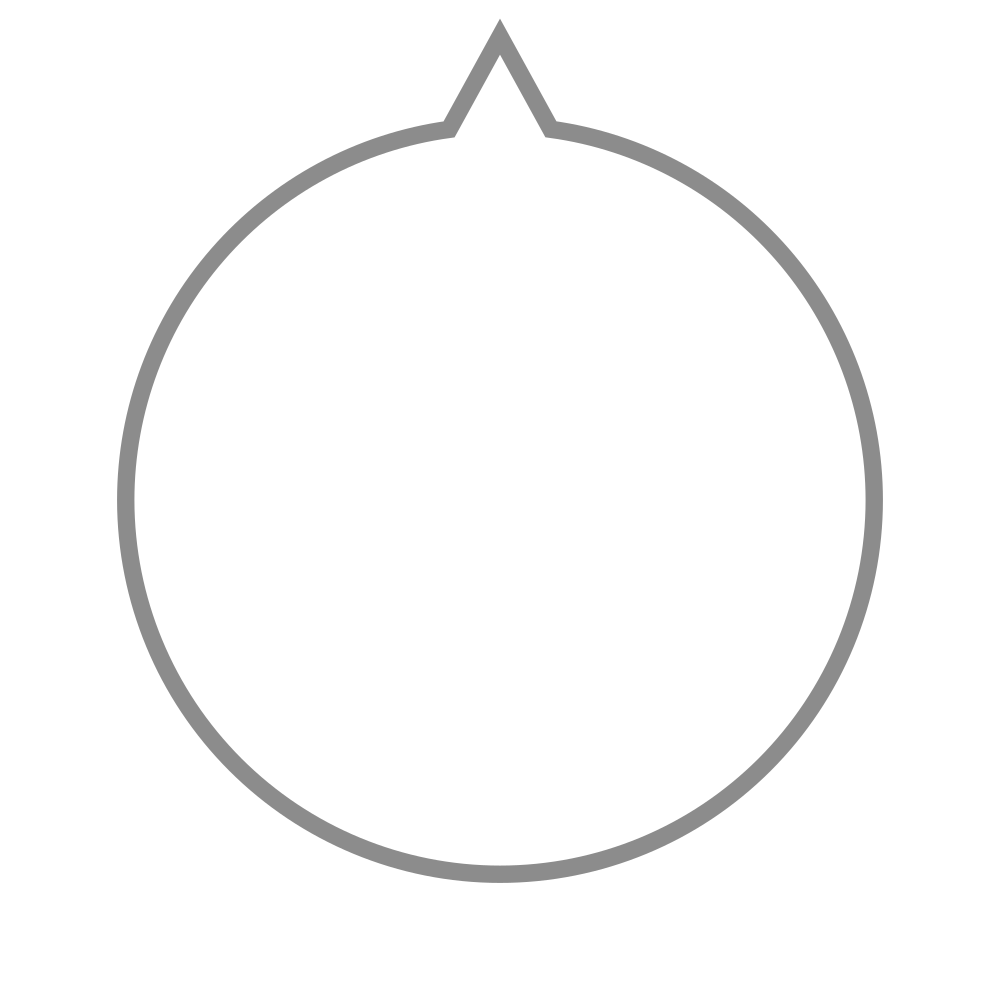
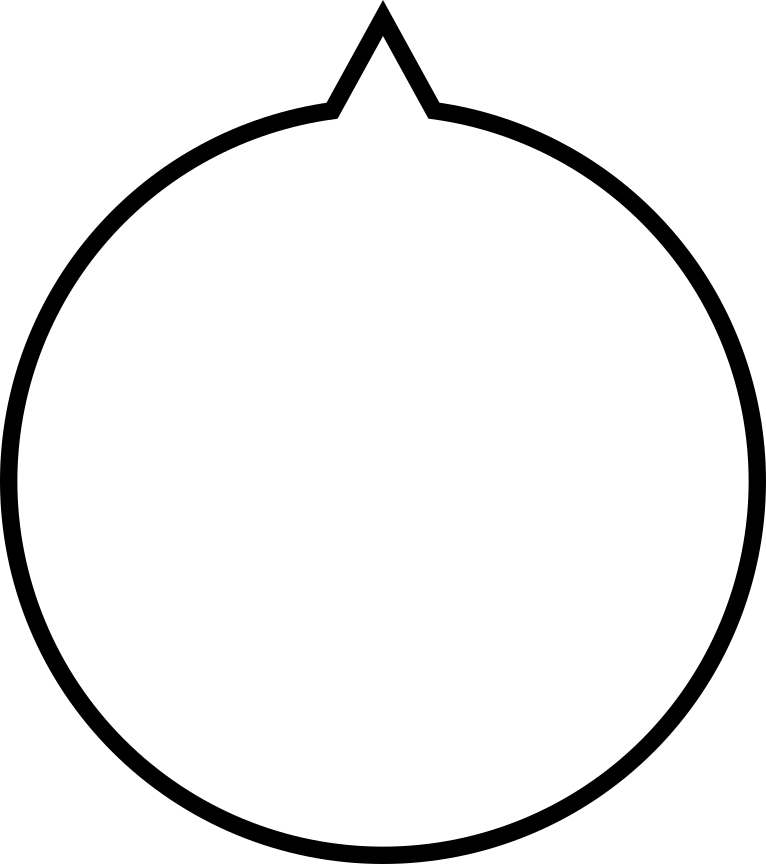
Changed layout for future improvements + changed arrow

Changed region(s): [[0.0, 0.0, 1.0, 1.0]]

diff --git a/index.html b/index.html
@@ -11,22 +11,22 @@
     <link rel="apple-touch-icon" href="assets/icons/apple-touch-icon.png">
 </head>
 <body>
-    <div class="top-half">
+    <div class="billy-image-container">
         <img class="main-img" src="assets/billy-asking.png" alt="Backyard Builder">
     </div>
     
-    <div class="bottom-half arrow-container hidden">
+    <div class="compass-container arrow-container hidden">
         <img class="arrow" src="assets/arrow1.png" alt="Arrow">
     </div>
 
-    <div class="bottom-half text-container hidden">
+    <div class="compass-container text-container hidden">
         <div style="text-align: center;">
             <span id="main-text">Finding location</span><br />
             <span id="sub-text">Please wait....</span>
         </div>
     </div>
 
-    <div class="bottom-half button-container">
+    <div class="compass-container start-button-container">
         <button class="start-button" onclick="startLocalization()">Find Backyard Builder</button>
     </div>
 </body>
@@ -63,7 +63,7 @@
         document.querySelector('.text-container').classList.remove('hidden');
     }
     function hideButton() {
-        document.querySelector('.button-container').classList.add('hidden');
+        document.querySelector('.start-button-container').classList.add('hidden');
     }
 
     function setImageAndBackground() {
@@ -222,7 +222,7 @@
         touch-action: pan-x pan-y;
     }
 
-    .top-half {
+    .billy-image-container {
         position: absolute;
         top: 0;
         height: 50vh;
@@ -234,10 +234,10 @@
         overflow: hidden;
     }
 
-    .bottom-half {
+    .compass-container {
         position: absolute;
-        bottom: 0;
-        height: 50vh;
+        bottom: 20vh;
+        height: 30vh;
         width: 100%;
         display: flex;
         justify-content: center;

diff --git a/sw.js b/sw.js
@@ -1,5 +1,5 @@
 // Bump the version to invalidate the cache after changing any cached file.
-const CACHE = 'bb-locator-v2';
+const CACHE = 'bb-locator-v3';
 const SHELL = [
     './',
     'index.html',
